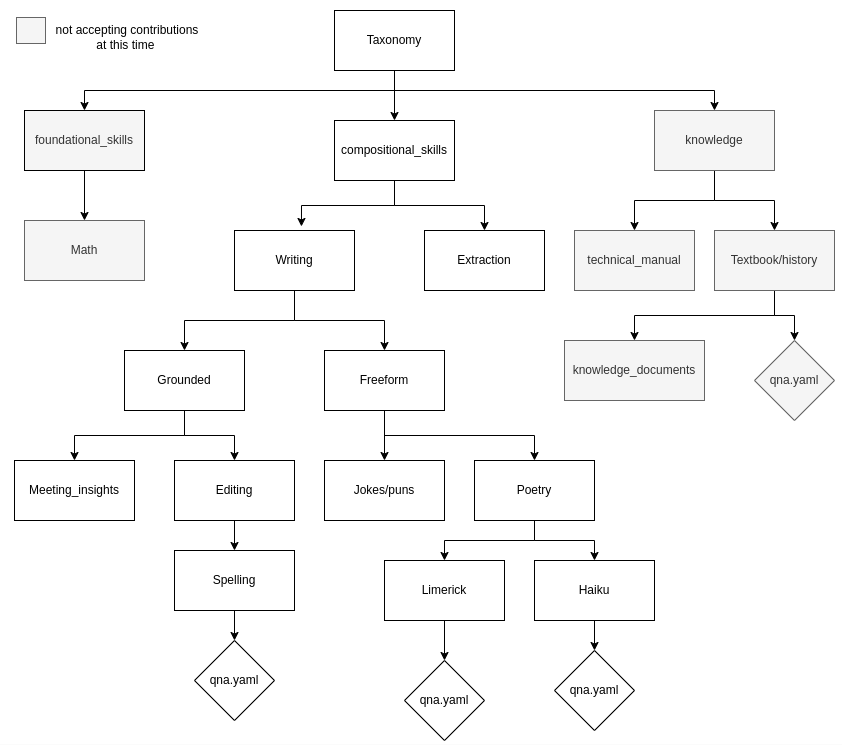
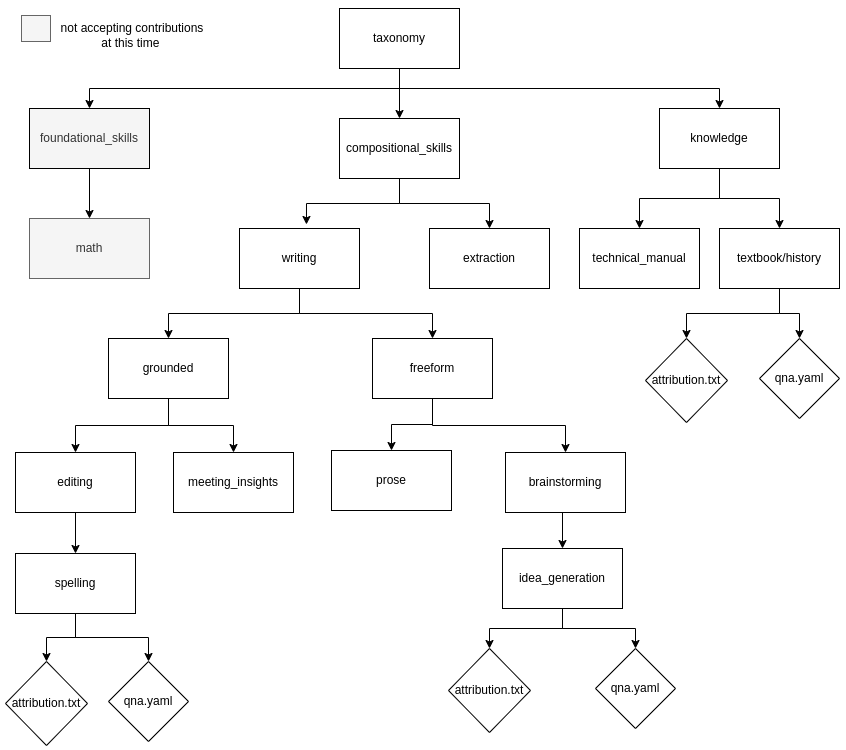
Taxonomy docs scrub

diff --git a/docs/triaging/triaging-contributions.md b/docs/triaging/triaging-contributions.md
@@ -1,18 +1,28 @@
-# Triaging Skills
+## Triaging contributions 
+
+- [Triaging guide](#triaging-guide)
+  - [Basic review questions](#basic-review-questions)
+  - [Subjective review questions](#subjective-review-questions)
+- [Triager responsibilities](#triager-reposibilites)
+  - [Labels](#labels)
+  - [Label workflow guide](#label-workflow-guide)
+- [Triaging schedule](#triaging-schedule)
+
+## Triaging guide 
 
 Before you begin, familiarize yourself with the basic concepts around skills and knowledge, as well as the file formats for compositional skills, grounded vs freeform skills, and knowledge.
 
 * [InstructLab Community Learning Guide](https://github.com/instructlab/community/blob/main/docs/README.md)
 * [Taxonomy README](../README.md)
 
-Skills triage is the practice of reviewing existing [skill pull requests (PRs)](https://github.com/instructlab/taxonomy/pulls?q=is%3Apr+is%3Aopen+label%3Askill) to make sure they're relevant, actionable, and have all the information needed to be fully evaluated by both the Taxonomy Triage team (Triagers, @taxonomy-triagers) and the Taxonomy Approvers (Approvers, @taxonomy-approvers).
+Triaging is the practice of reviewing existing [skill and knowledge pull requests (PRs)](https://github.com/instructlab/taxonomy/pulls?q=is%3Apr+is%3Aopen+label%3Askill) to make sure they're relevant, actionable, and have all the information needed to be fully evaluated by both the Taxonomy Triage team (Triagers, @taxonomy-triagers) and the Taxonomy Approvers (Approvers, @taxonomy-approvers).
 
-Triagers should review open pull requests and use labels to manage their state and any actions needed. Triagers are also encouraged to provide informative and helpful comments either back to the contributor, to other Triagers or to the Approvers. And remember to be nice.
+Triagers review open pull requests and use labels to manage their state and any actions needed. Triagers are also encouraged to provide informative and helpful comments either back to the contributor, to other Triagers or to the Approvers. And remember to be nice.
 
 > [!IMPORTANT]
 > Triagers DO NOT MERGE skills pull requests. This action will be done after final approval by @taxonomy-approvers
 
-## Basic review questions:
+### Basic review questions:
 - Does the PR have the pull request template information filled out?
   - If skill has not been run through lmdk, assign unverified label
 - Did all the PR checks pass?
@@ -24,7 +34,7 @@ Triagers should review open pull requests and use labels to manage their state a
 - No toxic or hateful content (HAP - hate abuse and profanity) (may eventually be automated)
 - Was response clearly generated by LLM (not easy but if very obvious) (may eventually be automated)
 
-## Subjective review questions:
+### Subjective review questions:
 - Is this a skill or knowledge
 - Do we think that the model could actually be improved by the examples?
   - Is this a skill that you can even teach an LLM
@@ -39,14 +49,19 @@ Triagers should review open pull requests and use labels to manage their state a
 > taxonomy files, perhaps also see if there's a more logical place in the
 > taxonomy structure for a person's contribution to live before signing off.
 
-## Potential automation: (at a later date)
+### Potential automation: (at a later date)
 - HAP filtering
 - PII filtering
 - sanity check: is model response similar or complete different from provided by contributor?
 - sanity check: is this a skill that you can even teach an LLM?
 - generation check: do the teacher-model-generated instructions actually make sense with the skill being added?
 
-## Labels:
+## Triager Reposibilites
+
+### Labels:
+
+There are a few labels that the triager is responsible for when reviewing PRs:
+
 - https://github.com/instructlab/taxonomy/labels/skill - a skills contribution as opposed to documentation contribution or a knowledge contribution (not yet accepted)
 - https://github.com/instructlab/taxonomy/labels/unverified - skill has not been run through lmdk
 - https://github.com/instructlab/taxonomy/labels/triage-needed - skill needs a triager to review it
@@ -68,19 +83,23 @@ Triagers should review open pull requests and use labels to manage their state a
   - re-assign to @taxonomy-approvers
 - [triage-meta](https://github.com/instructlab/taxonomy/labels/triage-meta) - issues for discussion and clarification of edge cases and categories of examples
 
-## Helpful guidance for different determinations
+### Label Workflow guide
 
-### Reasons for approval:
+![tax_label](../assets/tax_labels.png)
+
+### Helpful guidance for different determinations
+
+#### Reasons for approval:
 * Generation seeds (successfully creates more instructions in a `.jsonl` file)
 * Meets all criteria
 
-### Reasons for needing further review:
+#### Reasons for needing further review:
 * Needs more extensive edits
 * General "I Don't Know"
 * Safety tasks and skills should always be escalated to @taxonomy-approvers
 * Super interesting, warrants further study
 
-### Reasons for rejection:
+#### Reasons for rejection:
 * Submitted knowledge not a skill. For example, troubleshooting on an uncommon IBM Storage Fusion error message. 
 * Obvious LLM answer, blocklist.
     * If you're not familiar with what ChatGPT / Bard / etc writing typically looks like, play with it a bit until you can recognize the tone and linguistic patterns.
@@ -89,4 +108,20 @@ Triagers should review open pull requests and use labels to manage their state a
 * Uninformative examples. For example, not all examples match the skill requested; Or the user didn’t put three independent question/answer pairs for the skill, but mistakenly submitted three chat turns for the three questions/answer pairs. Or overly repetitive examples which do not help to clear define of the requested skill. 
 * Missing examples: didn’t provide desired model response for the skill. 
 
-NOTE: Skills triagers should try to include as much information as to why the contribution is rejected.
+> [!NOTE] 
+> Skills triagers should try to include as much information as to why the contribution is rejected.
+### Scrubbing data from issues and pull requests
+
+- Title: edit title to remove information
+- Comment: simply edit or delete a comment; if info is very sensitive and needs to be fully deleted, after editing the comment, use the edit history dropdown menu in the comment to delete previous versions of the comment’s content
+- Description of issue or pull request cannot be simply deleted, so follow process above to edit and delete history revisions
+- Code (in pull request files): 
+  - Do NOT close PR or delete source branch yet (**important** as this would disconnect the PR from the PR source branch and the PR's changed files view remain visible)
+  * Edit/delete the files on the forked branch (clone the fork, checkout the PR's branch, edit the file(s), git amend last commit or reset HEAD~n to revert last n commits, force push)
+  * Now close PR, delete source branch
+  * The original now orphaned commits can still be found, but it takes some effort and the changed files view no longer shows any of the sensitive information
+  * Edit any comments on the PR with sensitive info and delete the previous versions
+
+## Triaging schedule
+
+![tax_label](../assets/triage_schedule.png)

diff --git a/README.md b/README.md
@@ -1,4 +1,4 @@
-# InstructLab 🥼 Taxonomy
+# InstructLab 🐶 Taxonomy
 
 ## Contents 📖 
 
@@ -14,7 +14,7 @@
   - [How to contribute skills and knowledge](#how-to-contribute-skills-and-knowledge)
 ## Welcome to the InstructLab Taxonomy
 
-InstructLab 🥼 uses a novel synthetic data-based alignment tuning method for
+InstructLab 🐶 uses a novel synthetic data-based alignment tuning method for
 Large Language Models (LLMs.) The "**lab**" in Instruct**Lab** 🥼 stands for
 [**L**arge-Scale **A**lignment for Chat**B**ots](https://arxiv.org/abs/2403.01081) [1].
 
@@ -46,10 +46,9 @@ Your skills contribution pull requests must include the following:
 >    2. To determine the interpretability by human contributors and maintainers.
 >    3. As part of the prompt to the GPT model used to generate synthetic samples.
 
-> [!NOTE]
-> To get the best use of this structure, make sure the names of directories match the intent of the
-> taxonomy files. You can also verify that a person's contribution is in the most logical location in the
-> taxonomy structure before signing off.
+> [!IMPORTANT]
+> There is a limit to how much content can exist in the question/answer pairs for the model to process. Due to this, only add a maximum
+> of around 2300 words to your question and answer seed example pairs in the `qna.yaml` file.
 
 Taxonomy skill files must be a valid [YAML](https://yaml.org/) file named `qna.yaml`. Each `qna.yaml` files contains a set of key/value entries with the following keys:
 
@@ -85,13 +84,14 @@ seed_examples:
   ...  
 ```
 
-Then, you create an `attribution.txt` file that includes the sources of your information.
+Then, you create an `attribution.txt` file that includes the sources of your information. These can also be self authored. 
 
 *Example `attribution.txt`*
 ```
-1. [Link to source]
-2. [Link to source 1], [Link to source 2] 
-3. Self-authored
+[Link to source] 
+[Link to work]
+[Licence of the work]
+[Creater name]
 ```
 For more information on what to include in your `attribution.txt` file, see [For your attribution.txt file](https://github.com/instructlab/taxonomy/blob/main/CONTRIBUTING.md#for-your-attributiontxt-file) in CONTRIBUTING.md.
 
@@ -114,36 +114,20 @@ It is recommended that you **lint**, or verify your YAML using a tool. One linte
 #### Freeform compositional skill: YAML example
 
 ```yaml
-task_description: 'Write Haikus.'
+task_description: 'Teach the model how to rhyme.'
 created_by: juliadenham
 seed_examples:
- -  question: Write me a 5-7-5 Haiku.
-    answer: |
-     The wind of Fuji
-     I've brought on my fan
-     a gift from Edo.
- - question: Write me a 5-7-5 Haiku.
-   answer: |
-     A blanket of fog
-     Engulfs the world around me
-     A dreary springtime.
- - question: Write me a 5-7-5 Haiku.
-   answer: |
-     Bright, the near-full Moon
-     Craters look like gray flowers
-     Listen, Crickets call.
- - question: Write me a 5-7-5 Haiku.
-   answer: |
-     The west wind whispered,
-     And touched the eyelids of spring,
-     Her eyes, Primroses.
- - question: Write me a 5-7-5 Haiku.
-   answer: |
-     Introverts at home
-     Are plagued by hyper children
-     When will school start next?
+  - question: What are 5 words that rhyme with horn?
+    answer: warn, torn, born, thorn, and corn.
+  - question: What are 5 words that rhyme with cat?
+    answer: bat, gnat, rat, vat, and mat.
+  - question: What are 5 words that rhyme with poor?
+    answer: door, shore, core, bore, and tore. 
+  - question: What are 5 words that rhyme with bank?
+    answer: tank, rank, prank, sank, and drank.
+  - question: What are 5 words that rhyme with bake?
+    answer: wake, lake, steak, make, and quake.
 ```
-
 Seriously, that's it.
 
 Here is the location of this YAML in the taxonomy tree. Note that the YAML file
@@ -247,14 +231,18 @@ data, or references.
 Knowledge in the taxonomy tree consists of a few more elements than skills:
 
 - Each knowledge node in the tree has a `qna.yaml`, similar to the format of the `qna.yaml` for skills. 
-- ⭐ Knowledge submissions require you to create a repository, can be with GitHub, that contains the markdown files of your knowledge contributions. These contributions in your repository must use the markdown (.md) format.
+- ⭐ Knowledge submissions require you to create a git repository, can be with GitHub, that contains the markdown files of your knowledge contributions. These contributions in your repository must use the markdown (.md) format.
 - The `qna.yaml` includes parameters that contain information from your repository. 
 
 > [!TIP] 
 > Guidelines for Knowledge contributions
 > - Submit the most up-to-date version of the document
 > - All submissions must be text, images will be ignored
-> - Tables can be added 
+> - Do not use tables in your markdown freeform contribution 
+
+> [!IMPORTANT]
+> There is a limit to how much content can exist in the question/answer pairs for the model to process. Due to this, only add a maximum
+> of around 2300 words to your question and answer seed example pairs in the `qna.yaml` file.
 
 Each `qna.yaml` file requires a minimum of five question-answer pairs. The `qna.yaml` format must include the following fields:
 ˇ
@@ -302,6 +290,15 @@ document:
  patterns:
    - oscars2024_results.md
 ```
+
+*Example `attribution.txt` file*
+```
+Title of work: 96th Academy Awards
+Link to work: https://en.wikipedia.org/wiki/96th_Academy_Awards 
+License of the work: CC-BY-SA-4.0
+Creator names: Wikipedia Authors
+```
+
 This knowledge example references one markdown file: `oscars2024_results.md`. You can also add multiple files for knowledge contributions. 
 
 > [!NOTE]

diff --git a/docs/README.md b/docs/README.md
@@ -22,7 +22,7 @@ For more information on the review process, see [Pull request review in CONTRIBU
 For more information on triaging contributions pull requests, see:
 
 - [Safe responses for common PR mistakes](triaging/safe-responses.md)
-- [Skills and knowledge triaging](triaging/skills-triage.md)
+- [Triaging guide](triaging/triaging-contributions.md)
 ## Contributing documentation
 
 For documentation contribution processes, see:
